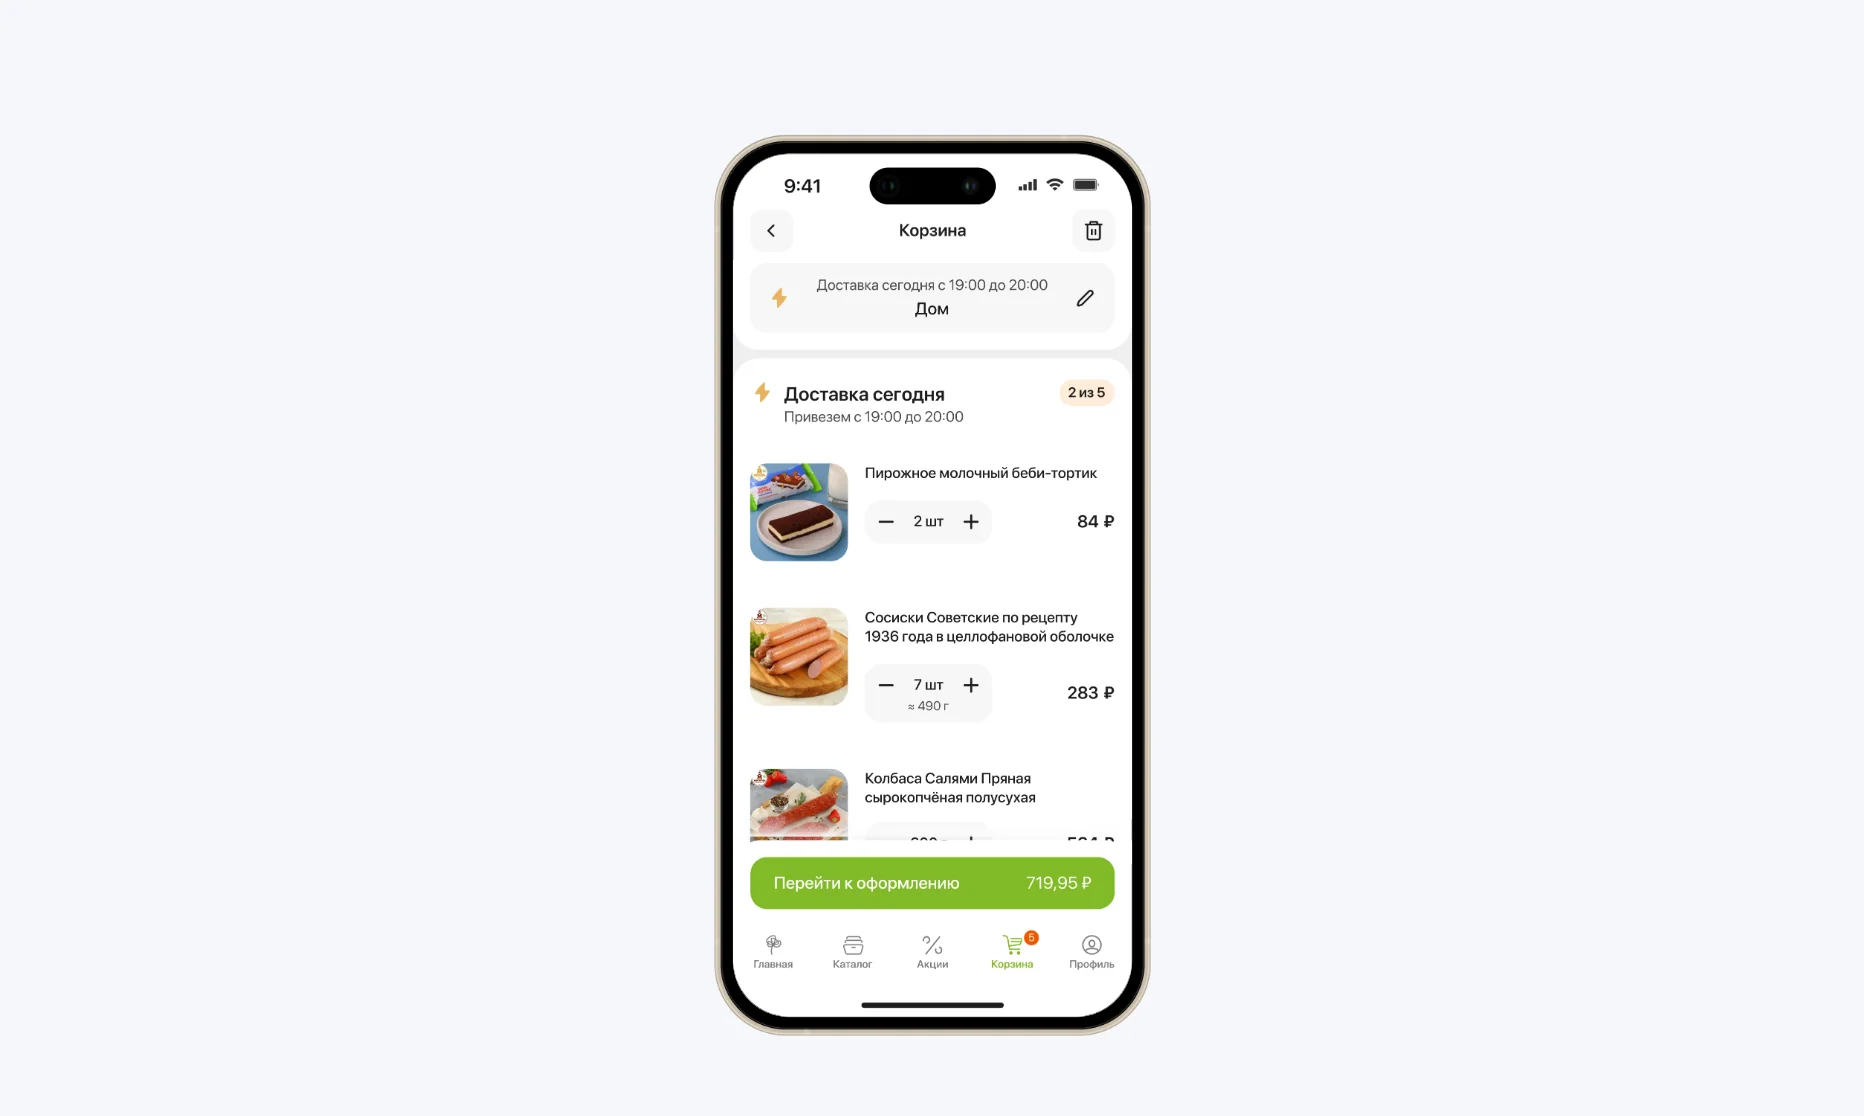
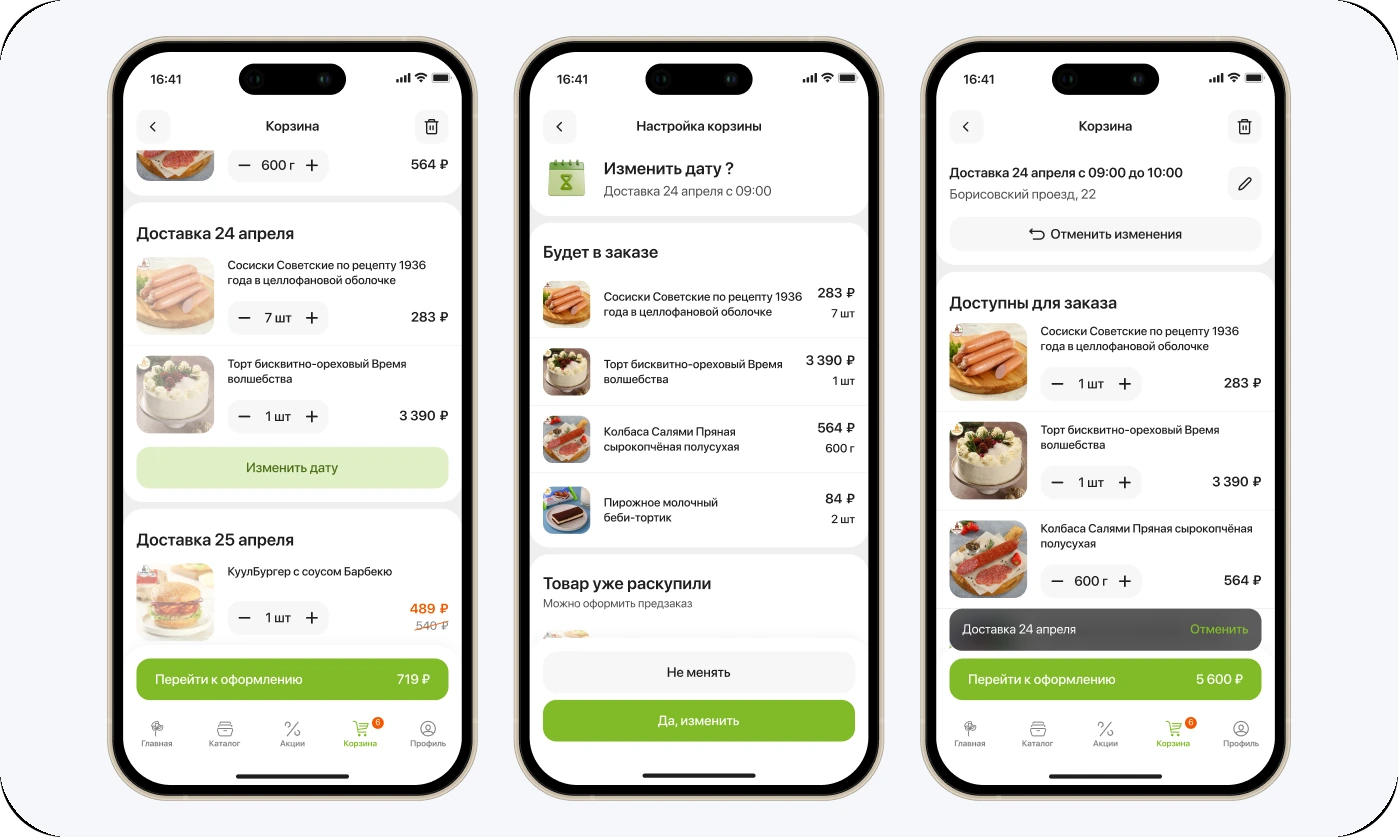
Кейс корзины: блок «Изменение даты» — новое фото вместо анимации
Claude-Session: https://claude.ai/code/session_01BbzCvaPYQ9pFtYCqfnGTSS

diff --git a/index.html b/index.html
@@ -1175,7 +1175,7 @@ picture{display:contents}
     <div class="case__group">
       <div class="case__block"><h3 class="case__h3">Группы по доступности с быстрыми действиями</h3><p class="case__text">Спроектировала систему групп по доступности с логикой приоритезации.</p></div>
       <figure class="case__fig"><picture><source srcset="cases/basket/smart-groups-dark.webp?v=2" media="(prefers-color-scheme: dark)"><img src="cases/basket/smart-groups.webp?v=2" width="1398" height="837" alt="Группы по доступности в корзине с быстрыми действиями: изменить дату, забрать из магазина, выбрать магазин" loading="lazy"></picture><figcaption>Группы по доступности с быстрыми действиями</figcaption></figure>
-      <figure class="case__fig"><div class="anim" data-anim="cases/anim/basket-date.html" data-title="Анимация: изменение даты доставки в корзине"><picture><source srcset="cases/basket/date-change-dark.webp" media="(prefers-color-scheme: dark)"><img src="cases/basket/date-change.webp" width="1864" height="1116" alt="Корзина: изменение даты доставки для группы товаров" loading="lazy"></picture></div><figcaption>Изменение даты</figcaption></figure>
+      <figure class="case__fig"><picture><source srcset="cases/basket/date-change-dark.webp?v=2" media="(prefers-color-scheme: dark)"><img src="cases/basket/date-change.webp?v=2" width="1398" height="837" alt="Изменение даты доставки: группа «Доставка 24 апреля» с кнопкой «Изменить дату», экран «Изменить дату?» с товарами, которые будут в заказе, и корзина с плашкой «Доставка 24 апреля — Отменить»" loading="lazy"></picture><figcaption>Изменение даты</figcaption></figure>
       <p class="case__text">Разделили группу предзаказа на даты для заказа в удобный для пользователя день</p>
       <figure class="case__fig"><picture><source srcset="cases/basket/preorder-dark.webp?v=2" media="(prefers-color-scheme: dark)"><img src="cases/basket/preorder.webp?v=2" width="1398" height="921" alt="Группа предзаказа до и после: товары разделены по датам доставки" loading="lazy"></picture><figcaption>Группы предзаказа</figcaption></figure>
     </div>
